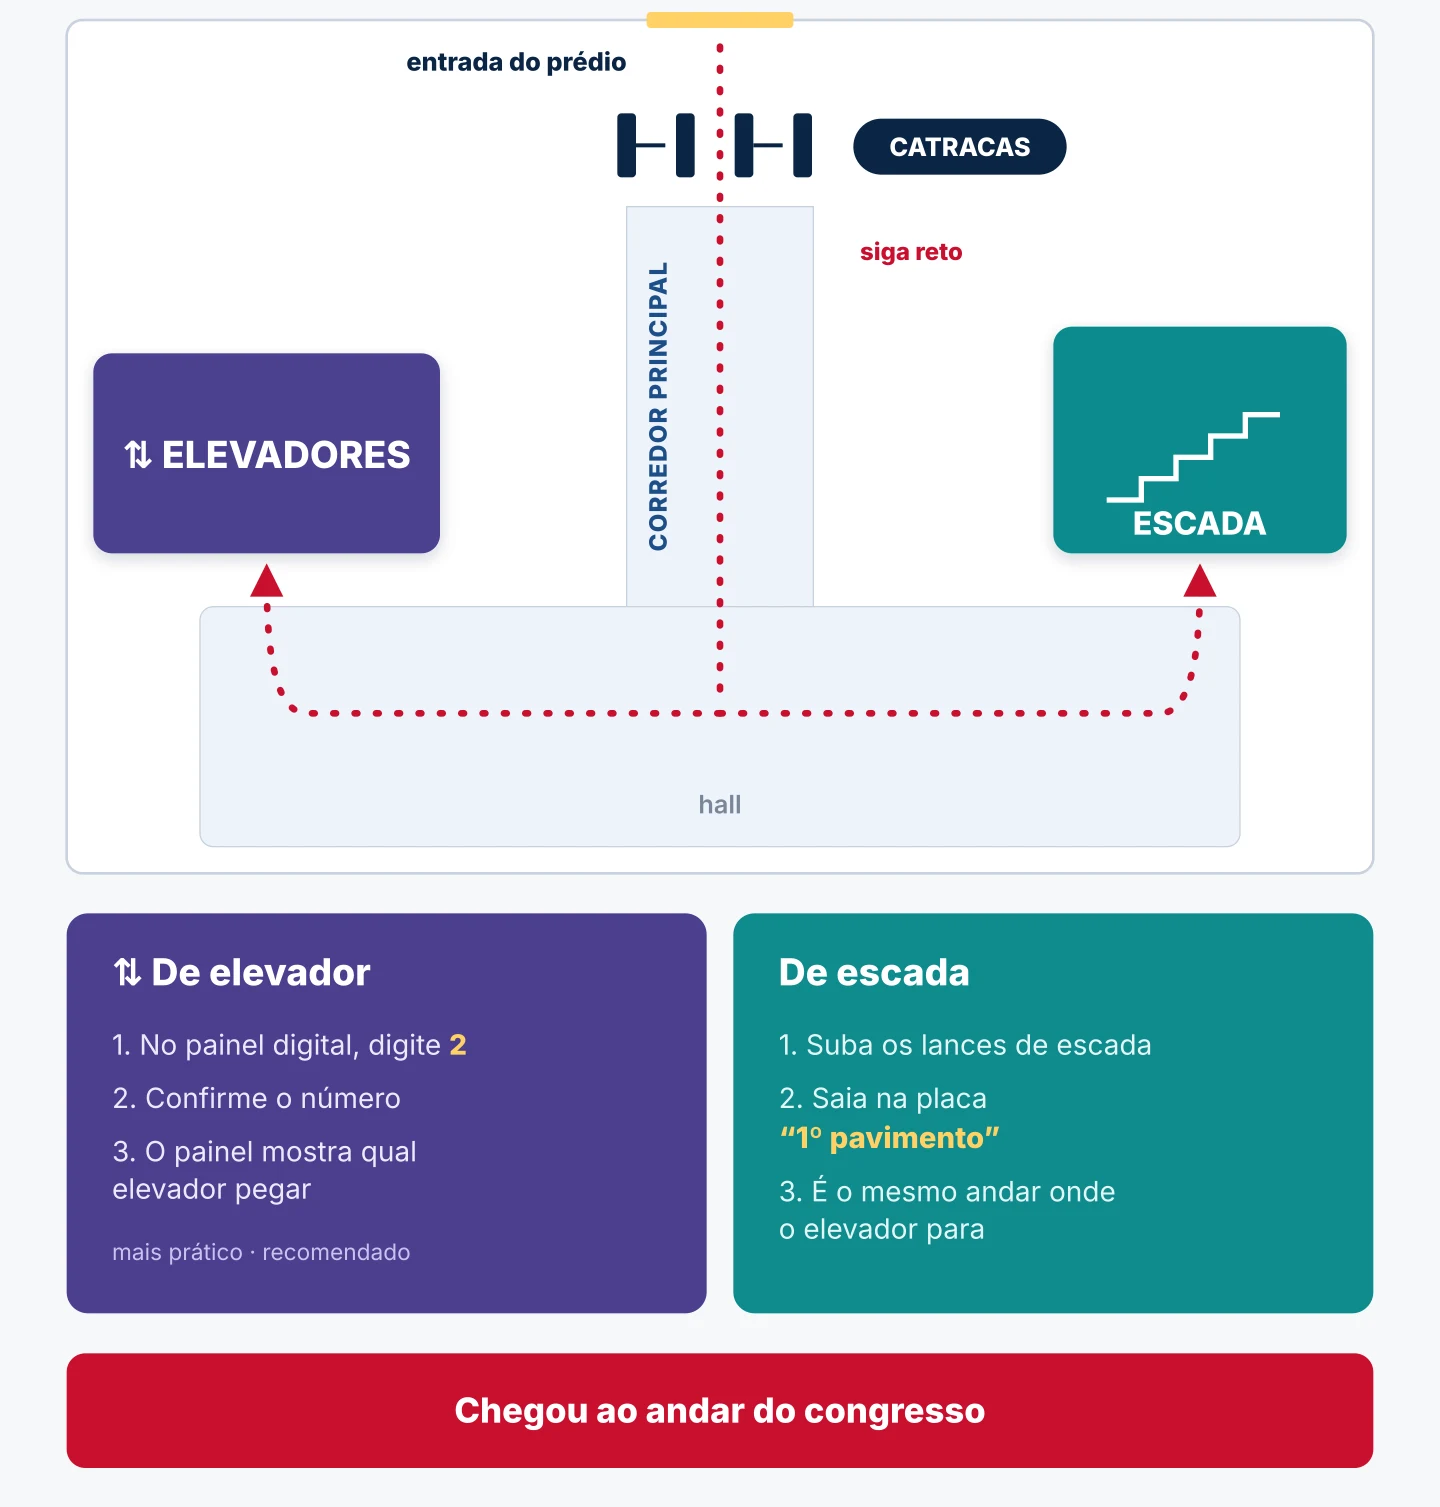
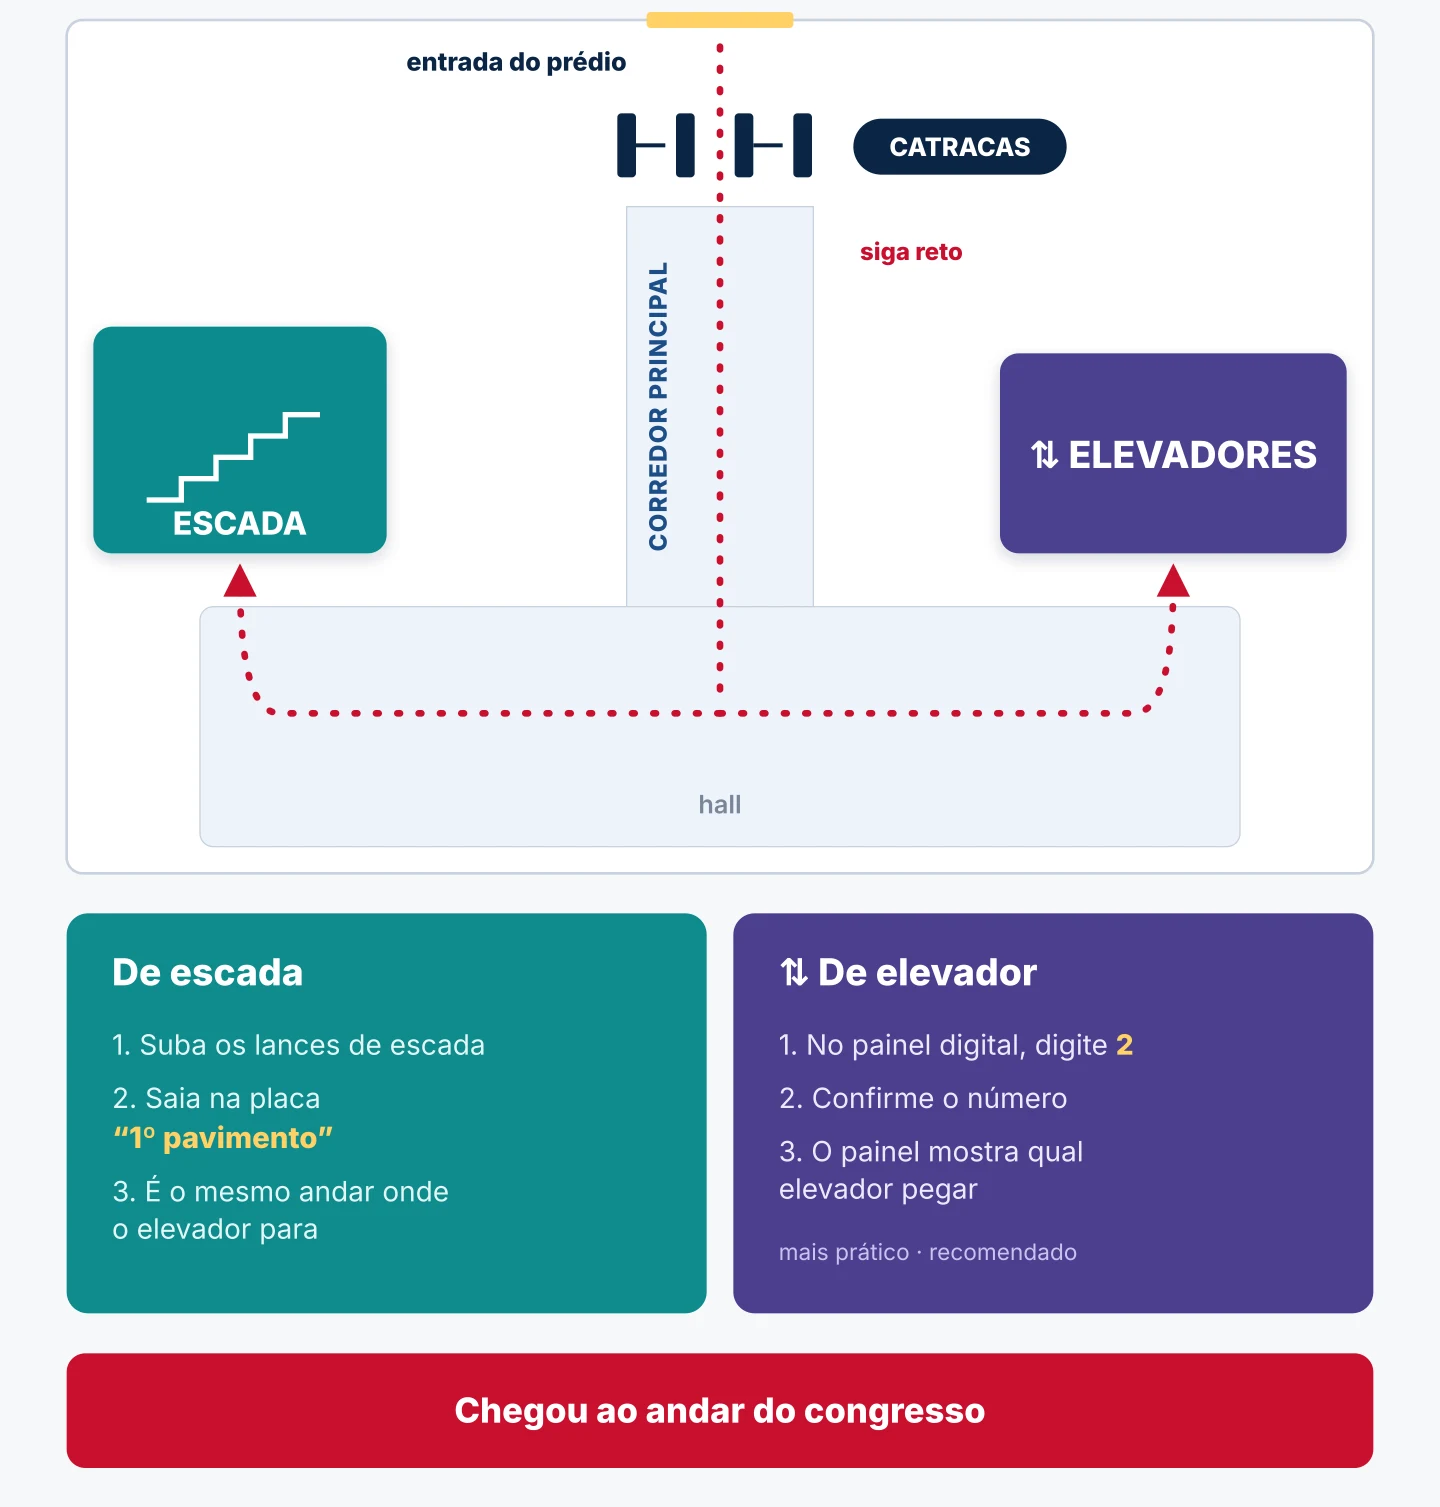
Mapas: térreo espelhado (escada e elevadores invertidos), bloco de mapas menor e sem linha do estacionamento
Claude-Session: https://claude.ai/code/session_0182YZMBjuu2gUD5tf6GjHNw

diff --git a/index.html b/index.html
@@ -295,11 +295,11 @@ footer p{margin:0 0 4px}footer a{color:inherit}
 .acc .body{padding:0 4px 16px;color:var(--ink-2);font-size:15.5px}
 .acc .body p{margin:0 0 8px}
 .acc .body ul{margin:0;padding-left:20px}
-.maps{margin-top:14px;display:flex;flex-direction:column;gap:10px}
+.maps{margin-top:14px;display:flex;flex-direction:column;gap:10px;max-width:420px}
 .maps .thumbs{display:grid;grid-template-columns:1fr 1fr;gap:10px}
 .maps .thumbs button{all:unset;box-sizing:border-box;min-width:0;width:100%;cursor:pointer;display:flex;flex-direction:column;border:2px solid var(--line);border-radius:10px;overflow:hidden;background:var(--surface)}
-.maps .thumbs button img{display:block;width:100%;max-width:100%;height:auto;aspect-ratio:4/3;object-fit:cover;object-position:top;background:#F7F8FB}
-.maps .thumbs button span{padding:7px 9px;font-family:var(--display);font-weight:700;font-size:15px;text-transform:uppercase;letter-spacing:.03em;color:var(--ink-2);line-height:1.15}
+.maps .thumbs button img{display:block;width:100%;max-width:100%;height:auto;aspect-ratio:16/10;object-fit:cover;object-position:top;background:#F7F8FB}
+.maps .thumbs button span{padding:6px 8px;font-family:var(--display);font-weight:700;font-size:13.5px;text-transform:uppercase;letter-spacing:.03em;color:var(--ink-2);line-height:1.15}
 .maps .thumbs button[aria-selected="true"]{border-color:var(--red)}
 .maps .thumbs button[aria-selected="true"] span{color:var(--red)}
 .maps .thumbs button:focus-visible{outline:3px solid var(--blue);outline-offset:2px}
@@ -425,7 +425,6 @@ footer p{margin:0 0 4px}footer a{color:inherit}
           <li><b>Plenarinho 2</b>: aulas, discussões em formato Heart Team e Simpósio de Hipertensão.</li>
           <li><b>Plenarinho 1</b>: Simpósio Multidisciplinar (sábado), Simpósio Acadêmico Multidisciplinar e apresentação dos trabalhos premiados (domingo).</li>
         </ul>
-        <p>Entre pela entrada do estacionamento da Av. Calama e siga as sinalizações até o local do evento.</p>
         <div class="maps" id="mapas">
           <div class="thumbs" role="tablist" aria-label="Mapas do congresso">
             <button type="button" role="tab" aria-selected="true" data-src="como-chegar/elevador.webp" data-alt="Do prédio ao elevador: catracas, corredor principal, hall, elevadores e escada"><img src="como-chegar/elevador.webp" alt="" loading="lazy" width="1440" height="1507"><span>Do prédio ao elevador</span></button>

diff --git a/como-chegar/index.html b/como-chegar/index.html
@@ -103,11 +103,11 @@ footer{font-size:13.5px;color:var(--muted);text-align:center;padding-top:8px}
     <figcaption>Toque na imagem para ampliar</figcaption>
   </figure>
   <div class="how">
-    <div class="elev"><b>⇅ De elevador</b>
-      <ol><li>No painel digital, digite <mark>2</mark></li><li>Confirme o número</li><li>O painel mostra qual elevador pegar</li></ol>
-    </div>
     <div class="esc"><b>De escada</b>
       <ol><li>Suba os lances de escada</li><li>Saia na placa <mark>“1º pavimento”</mark></li><li>É o mesmo andar onde o elevador para</li></ol>
+    </div>
+    <div class="elev"><b>⇅ De elevador</b>
+      <ol><li>No painel digital, digite <mark>2</mark></li><li>Confirme o número</li><li>O painel mostra qual elevador pegar</li></ol>
     </div>
   </div>
 </section>

diff --git a/sw.js b/sw.js
@@ -1,5 +1,5 @@
 /* CRC 2026: service worker mínimo. Rede primeiro; cache só como reserva se o sinal cair dentro do auditório. */
-var C="crc2026-v7";
+var C="crc2026-v8";
 self.addEventListener("install",function(e){self.skipWaiting()});
 self.addEventListener("activate",function(e){e.waitUntil(caches.keys().then(function(ks){return Promise.all(ks.filter(function(k){return k!==C}).map(function(k){return caches.delete(k)}))}).then(function(){return self.clients.claim()}))});
 self.addEventListener("fetch",function(e){
